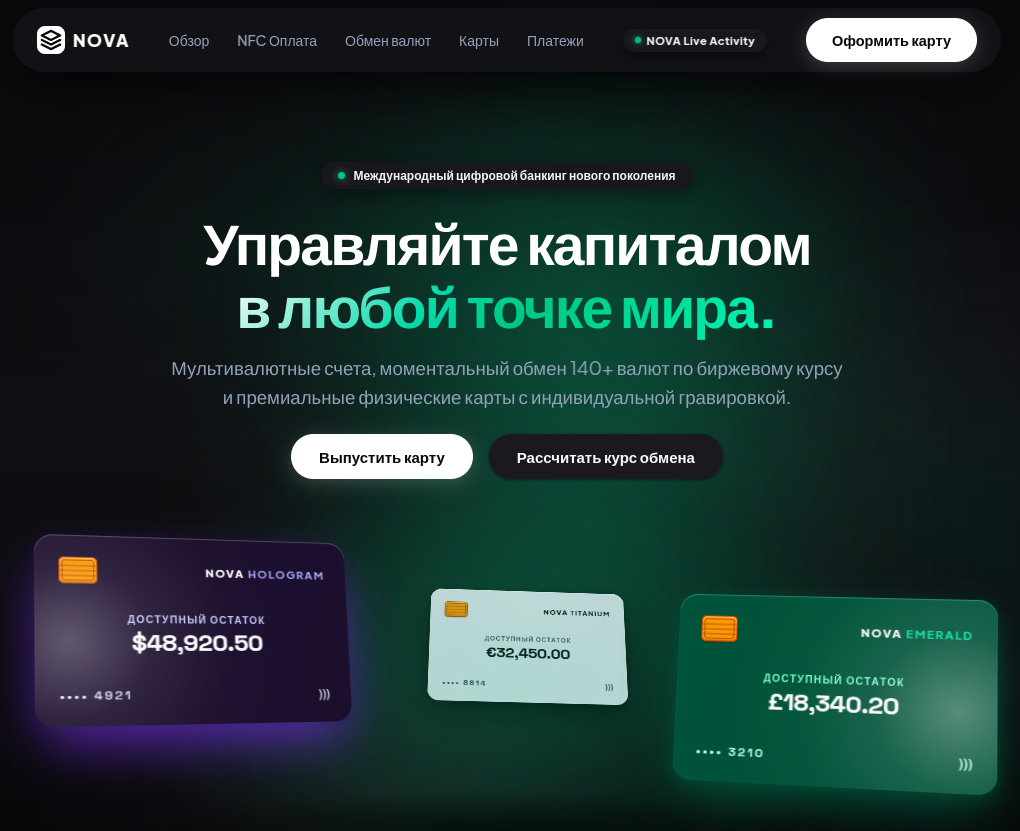
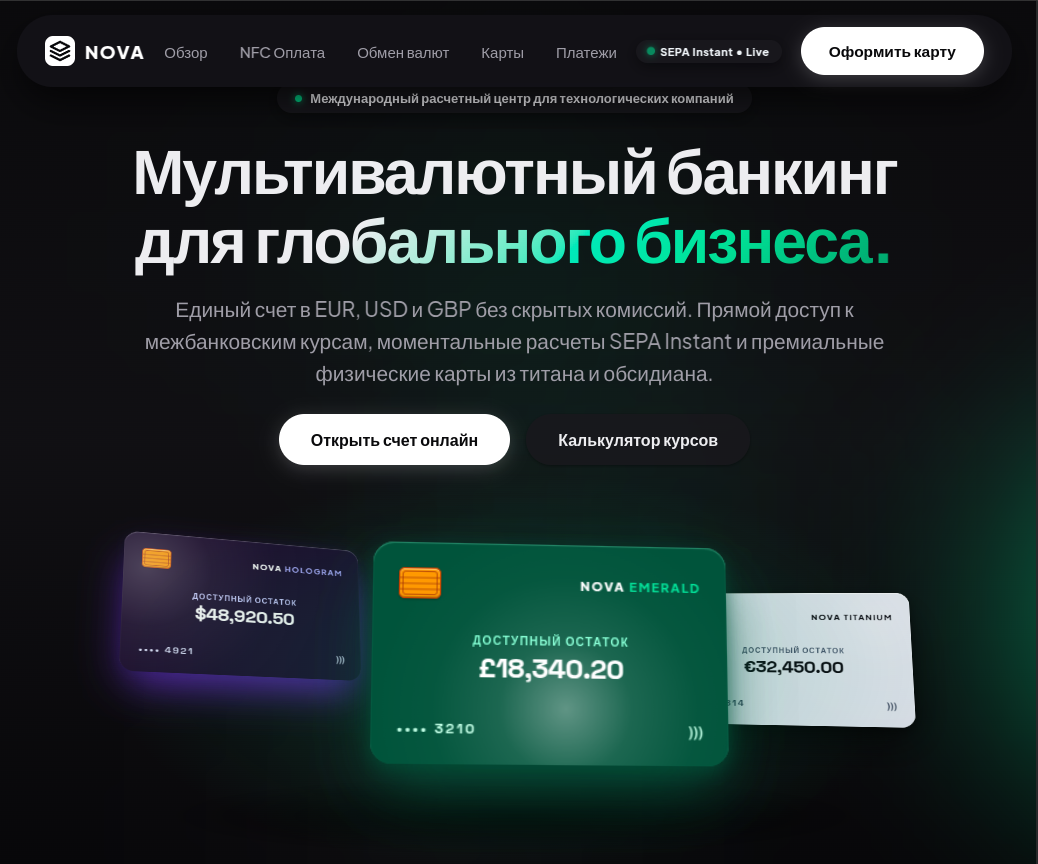
feat(projects): update NOVA Pay preview asset and refine technology stack

diff --git a/index.html b/index.html
@@ -532,7 +532,7 @@
                   Финтех-сервис с плавной интерактивной 3D-анимацией на GSAP, современным адаптивным интерфейсом и высокой производительностью.
                 </p>
                 <span class="projects__info-tech"
-                  >JavaScript, GSAP, CSS 3D, Vite</span
+                  >JavaScript (ES6+), GSAP, CSS 3D, Vite</span
                 >
                 <div class="projects__link-container">
                   <a
